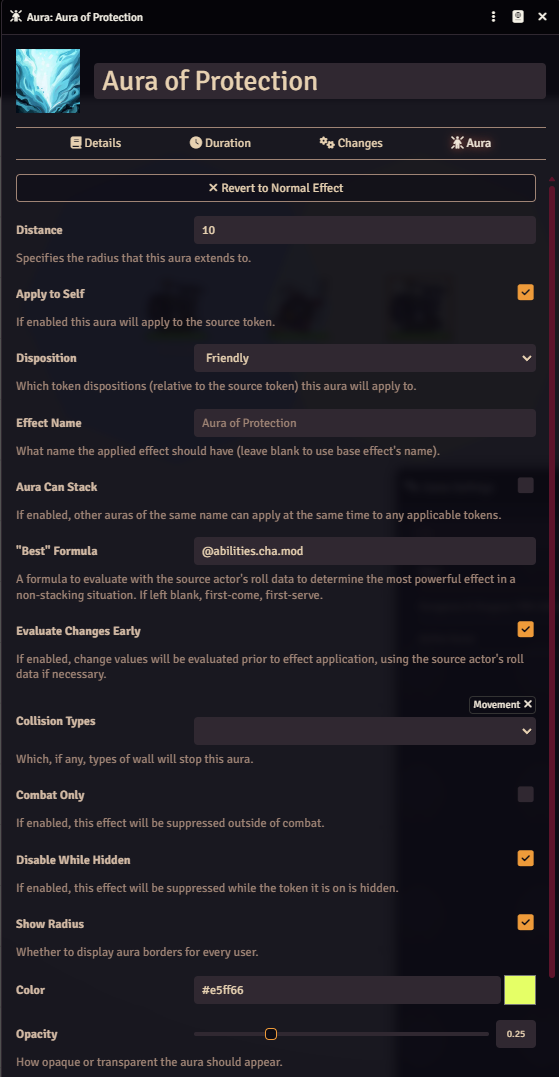
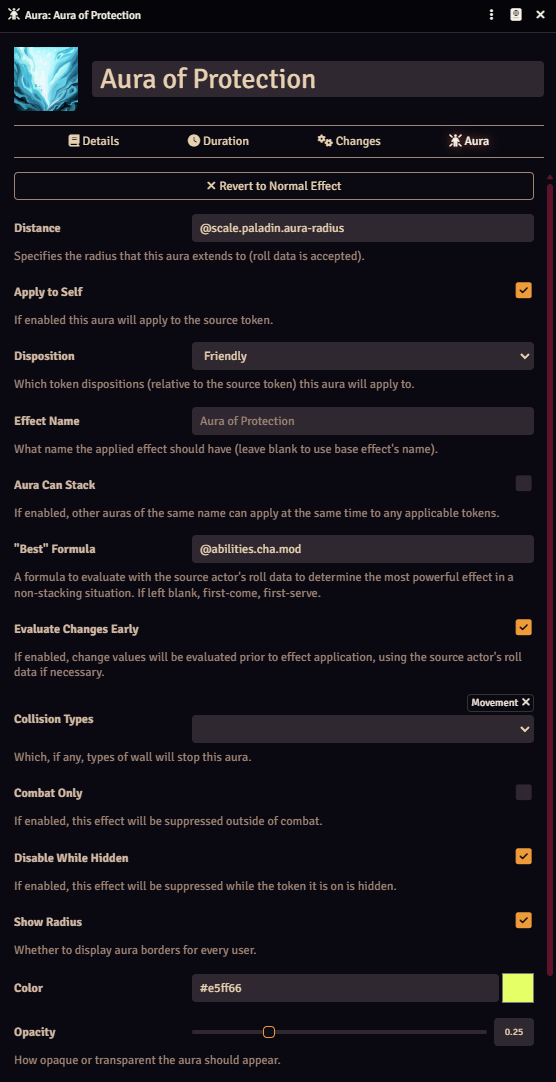
update changelog, accept rolldata in distance formula

diff --git a/CHANGELOG.md b/CHANGELOG.md
@@ -4,7 +4,7 @@
 - Welcome to those coming from Active Auras. There is an included migration script (user-triggered, found in the Aura Effects Macros compendium) which aims to automatically convert effects to the new format. Key differences from Active Auras:
   - Auras can now be visualized! This can be disabled globally per-client, and enabled/disabled per-Aura as well.
   - Auras will now always respect whatever grid diagonal settings are selected, and will compute vertical distance using the same rules.
-  - You can now select (unless you are using a module such is DAE, which forces this behavior) to have an effect evaluate its values using the _source_ actor's roll data. This allows you to implement, for instance, 5e's "Aura of Protection," which grants a bonus to saves equal to the _source_'s charisma modifier.
+  - You can now select to _not_ evaluate effect change values pre-application (unless you are using a module such as DAE, which forces that behavior). This means you can have an aura grant, for instance, a bonus to each recipient's attacks equal to _the recipient's_ strength score.
   - Aura source effects are now a new subtype of Active Effects. You can turn an Active Effect into an Aura Active Effect on the "Details" tab of the effect configuration. This will re-open the window with a new "Aura" tab.
   - Support for Templates & Drawings calling macros has been dropped; with the existence of Scene Regions, this functionality should no longer be necessary.
   - System-specific options (such as alignment for dnd5e and wildcard/extra for swade) have been dropped. If you used these, the migration script should pick this up and populate the "Conditional Script" field with the appropriate implementation of what you had selected.

diff --git a/README.md b/README.md
@@ -16,7 +16,7 @@ In the 5e system, "Aura of Protection" is an aura that paladins get which provid
 ![Aura image](docs/example_3.png)
 
 3. Configure:
-- Set distance (10 feet)
+- Set distance (using the scale value which exists on the class, in this case)
 - Ensure the aura applies to the source
 - Set disposition to only affect friendly tokens
 - Ensure it _cannot_ stack
